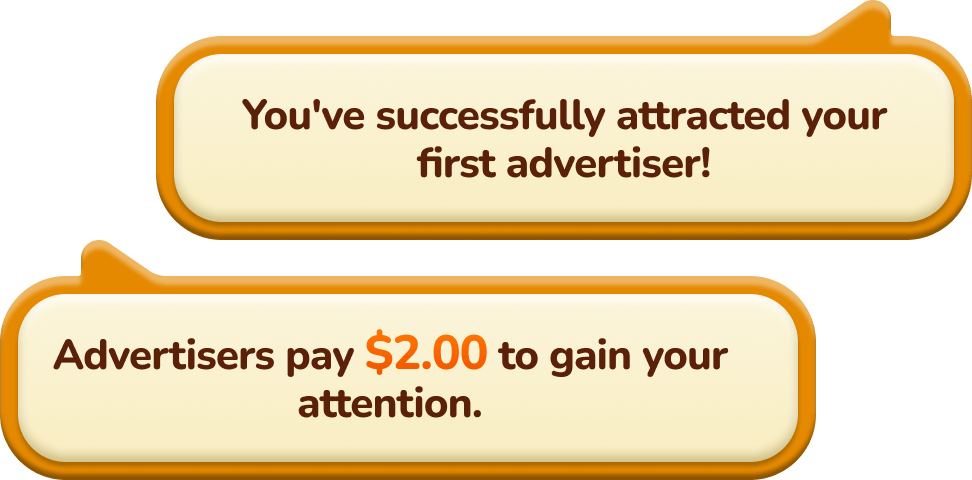
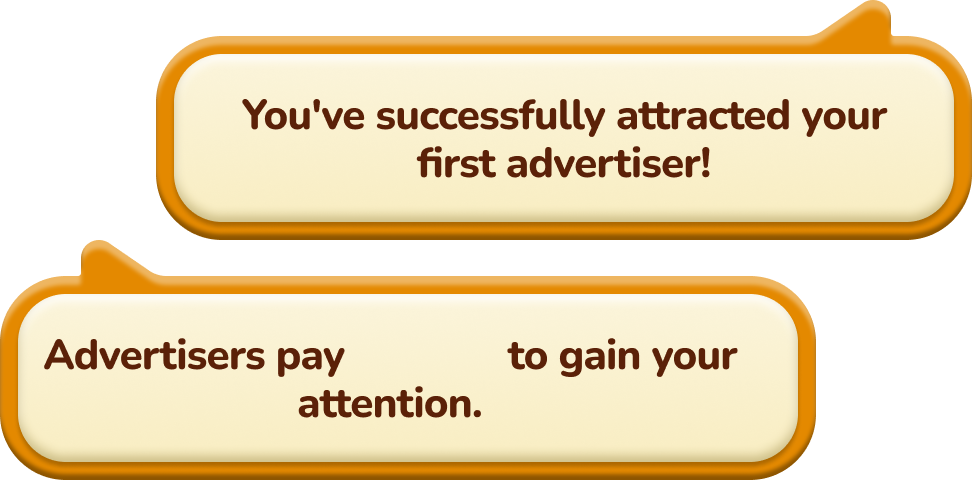
fix bug

Changed region(s): [[0.0309, 0.6875, 0.7716, 0.7812]]

diff --git a/lib/tw_143/tw_pages/main_tree/main_tree_controller.dart b/lib/tw_143/tw_pages/main_tree/main_tree_controller.dart
@@ -16,6 +16,7 @@ import 'package:c143/tw_143/tw_pages/guide/guide17_coin_to_flower.dart';
 import 'package:c143/tw_143/tw_pages/guide/guide1_water.dart';
 import 'package:c143/tw_143/tw_pages/guide/guide2_coin.dart';
 import 'package:c143/tw_143/tw_pages/guide/guide3_adspot.dart';
+import 'package:c143/tw_143/tw_pages/guide/guide3b_trust.dart';
 import 'package:c143/tw_143/tw_pages/guide/guide4_fertilize.dart';
 import 'package:c143/tw_143/tw_pages/guide/guide5_adspot.dart';
 import 'package:c143/tw_143/tw_pages/guide/guide6_rewarddouble.dart';
@@ -379,7 +380,7 @@ class MainTreeController extends GetxController {
     // data = MainTreeController.guide4;
     if (data == null) {
       if (TwPackageABC143.isPackageB()) {
-        OverlayGuide0BGuide().show(coins: 5, onBtn: (value) {});
+        OverlayGuide0BGuide().show(coins: 10, onBtn: (value) {});
       } else {
         OverlayGuide1Water().show();
       }
@@ -390,13 +391,28 @@ class MainTreeController extends GetxController {
     } else if (data == MainTreeController.guide2) {
       OverlayGuide3AdSpot().show(coins: 10);
     } else if (data == MainTreeController.guide3) {
-      OverlayGuide4Fertilize().show();
+      if(TwPackageABC143.isPackageB() ){
+        OverlayGuide3BTrust().show();
+      }else{
+        OverlayGuide4Fertilize().show();
+      }
+
     } else if (data == MainTreeController.guide4) {
       OverlayGuide5AdSpot().show(coins: 10);
     } else if (data == MainTreeController.guide5) {
-      OverlayGuide6RewardDouble().show(coins: 10);
+      OverlayGuide6RewardDouble().show(coins: 5);
     } else if (data == MainTreeController.guide6) {
-      OverlayGuide7Rank().show();
+      String? data = MainTreeController.to.guide7CashoutData();
+      if (TwPackageABC143.isPackageB()) {
+        if(data == null){
+          OverlayGuide8Cash().show(coins: 111);
+        }else{
+          MainController.to.resetIndex(MainController.cashIndex);
+        }
+
+      } else {
+        OverlayGuide7Rank().show();
+      }
     } else if (data == MainTreeController.guide7) {
       String? data = MainTreeController.to.guide7CashoutData();
       if (TwPackageABC143.isPackageB() && data == null) {
@@ -709,9 +725,9 @@ class MainTreeController extends GetxController {
       OverlayLotWater().show(
         onEnd: () {
           curHasWatering.value = true;
-          Timer(Duration(milliseconds: 2000), () {
+          Timer(Duration(milliseconds: 0), () {
             audioBtn_Water2.pause();
-            audioMusic.resume();
+            // audioMusic.resume();
             int tmpCurMmm = curStageWaterCount.value;
 
             int tmpCurmmm2 = tmpCurMmm + 1;

diff --git a/lib/tw_143/tw_pages/main_cash/viewC143/cash_progress.dart b/lib/tw_143/tw_pages/main_cash/viewC143/cash_progress.dart
@@ -2,6 +2,7 @@ import 'package:c143/tw_143/tw_common/lottieeee/gesture.dart';
 import 'package:c143/tw_143/tw_pages/main_cash/main_cash_controller.dart';
 import 'package:c143/tw_143/tw_pages/main_tree/main_tree_controller.dart';
 import 'package:c143/tw_base/tw_gj/countryC143.dart';
+import 'package:c143/tw_base/tw_gj/logC143.dart';
 import 'package:c143/tw_base/tw_gj/vibration.dart';
 import 'package:c143/tw_views/animated_scale.dart';
 import 'package:c143/tw_views/tw_progress.dart';
@@ -22,18 +23,20 @@ class _CashProgressState extends State<CashProgress> {
   Widget build(BuildContext context) {
     return Obx(() {
       double maxnnn = MainTreeController.stageB1Num;
-
-      if (MainCashController.to.hasSaveCardIddddC143()) {
+      double lfettt = MainTreeController.to.leftMonn1();
+      bool hasSaaa = MainCashController.to.hasSaveCardIddddC143();
+      if (hasSaaa) {
         maxnnn = MainTreeController.maxCoinNum;
+        lfettt = MainTreeController.to.leftMonn2();
       }
 
       double progress = MainTreeController.to.curMoneyyyy.value / maxnnn;
       if (progress >= 1) {
         progress = 1;
       }
-
+      twLooog("===progress:$progress===");
       List<Color> prgressTxt = MainCashController.to.progressColors();
-      double lfettt = MainTreeController.to.leftMonn1();
+
       return Padding(
         padding: EdgeInsets.symmetric(horizontal: 20.w),
         child: Column(
@@ -69,7 +72,7 @@ class _CashProgressState extends State<CashProgress> {
             Container(
               padding: EdgeInsets.symmetric(horizontal: 16.w),
               width: 320.w,
-              height: 140.h,
+              height: 160.h,
               decoration: BoxDecoration(
                 color: Colors.white,
                 borderRadius: BorderRadius.circular(12.h),
@@ -116,7 +119,7 @@ class _CashProgressState extends State<CashProgress> {
                       children: [
                         Container(
                           width: 290.w,
-                          height: 40.h,
+                          height: 60.h,
                           decoration: BoxDecoration(
                             gradient: LinearGradient(
                               colors: prgressTxt,
@@ -141,7 +144,7 @@ class _CashProgressState extends State<CashProgress> {
                                   style: TextStyle(
                                     fontWeight: FontWeight.w700,
                                     fontSize: 16.sp,   height: 1,
-                            
+
                                     color: Color(0xffffffff),
                                   ),
                                 ),

diff --git a/lib/tw_143/tw_pages/main/main_controller.dart b/lib/tw_143/tw_pages/main/main_controller.dart
@@ -22,6 +22,7 @@ import 'package:c143/tw_143/tw_pages/main_tree/main_tree_controller.dart';
 import 'package:c143/tw_base/tw_ad/guiyin/package.dart';
 import 'package:c143/tw_base/tw_gj/android_h5.dart';
 import 'package:c143/tw_base/tw_gj/event_busC143.dart';
+import 'package:c143/tw_base/tw_gj/login_trackC143.dart';
 import 'package:c143/tw_base/tw_gj/vibration.dart';
 import 'package:c143/tw_base/tw_http/event_report.dart';
 import 'package:c143/tw_notification/overlay_notify.dart';
@@ -35,7 +36,7 @@ class MainController extends GetxController {
   static const int quizIndex = 1;
   static const int spinindexxx = 2;
   static const int cashIndex = 3;
-
+  bool hasQidong = false;
   resetIndex(int index) async {
     // throw Exception();
     // VibrationC143.vibrationClick();
@@ -46,6 +47,16 @@ class MainController extends GetxController {
     if (curSelect == index) {
       return;
     }
+
+    if(TwLoginnnTrackC143.qiduoCishu() == 2 && !hasQidong){
+      String? data = MainTreeController.to.guide7CashoutData();
+      if(data != null){
+        hasQidong = true;
+        MainTreeController.to.initGuide();
+      }
+
+    }
+
     curMainNavIndex.value = index;
     if (index == cashIndex) {
       TwMaiDiannnn.cash_page_view(
@@ -61,9 +72,14 @@ class MainController extends GetxController {
       String? data = MainTreeController.to.guideIndexData();
 
       if (data == MainTreeController.guide10) {
-        OverlayGuide11HomeBonus().show(
-          coins: TwPackageABC143.isPackageB() ? 5 : 10,
-        );
+        if(TwPackageABC143.isPackageB()){
+          OverlayGuide7Rank().show();
+        }else{
+          OverlayGuide11HomeBonus().show(
+            coins: TwPackageABC143.isPackageB() ? 5 : 10,
+          );
+        }
+
       }
 
       MainTreeController.to.resetCoin();

diff --git a/lib/tw_143/tw_pages/guide/guide2_coin.dart b/lib/tw_143/tw_pages/guide/guide2_coin.dart
@@ -71,12 +71,12 @@ class OverlayGuide2Coin {
           MainTreeController.to.saveGuideIndexData(
             MainTreeController.guide2,
           );
-          double coins = 2;
+          double coins = 10;
           if(TwPackageABC143.isPackageB()){
-            coins = 2;
-            await TwCommonAds().showInterstitialAd(
-              adPosId: TwAdsPosId.cuvxv_newadview_rv,
-            );
+            // coins = 2;
+            // await TwCommonAds().showInterstitialAd(
+            //   adPosId: TwAdsPosId.cuvxv_newadview_rv,
+            // );
           }
 
           OverlayGuide3AdSpot().show(coins: coins);
@@ -252,16 +252,16 @@ class GuideWidget extends StatelessWidget {
                     ),
                   ),
                 )),
-                if (TwPackageABC143.isPackageB())
-                  Positioned(
-                    top: -10.h,
-                    right: -5.h,
-                    child: Image.asset(
-                      Assets.twimg.ad.path,
-                      width: 28.h,
-                      height: 28.h,
-                    ),
-                  ),
+                // if (TwPackageABC143.isPackageB())
+                //   Positioned(
+                //     top: -10.h,
+                //     right: -5.h,
+                //     child: Image.asset(
+                //       Assets.twimg.ad.path,
+                //       width: 28.h,
+                //       height: 28.h,
+                //     ),
+                //   ),
                 Positioned(
                   top: 40.h,
                   left: 30.w,

diff --git a/lib/tw_143/tw_pages/guide/guide7_rank.dart b/lib/tw_143/tw_pages/guide/guide7_rank.dart
@@ -3,6 +3,7 @@ import 'dart:async';
 import 'package:auto_size_text/auto_size_text.dart';
 import 'package:c143/gen/assets.gen.dart';
 import 'package:c143/tw_143/tw_common/lottieeee/gesture.dart';
+import 'package:c143/tw_143/tw_pages/guide/guide12_homereward.dart';
 import 'package:c143/tw_143/tw_pages/guide/guide1_water.dart';
 import 'package:c143/tw_143/tw_pages/guide/guide3_adspot.dart';
 import 'package:c143/tw_143/tw_pages/guide/guide8_cash.dart';
@@ -64,13 +65,19 @@ class OverlayGuide7Rank {
         guideContext: guideContext!,
         onClose: () async {
           close();
-          MainTreeController.to.saveGuideIndexData(
-            MainTreeController.guide7,
-          );
+
           // MainController.to.resetIndex(MainController.quizIndex);
           if(TwPackageABC143.isPackageB()){
-            OverlayGuide8Cash().show(coins: 111);
+            MainTreeController.to.saveGuideIndexData(
+              MainTreeController.guide11,
+            );
+
+            OverlayGuide12HomeReward().show(coins: 10, onBtn: (value) {});
+            // OverlayGuide8Cash().show(coins: 111);
           }else{
+            MainTreeController.to.saveGuideIndexData(
+              MainTreeController.guide7,
+            );
             MainController.to.resetIndex(MainController.quizIndex);
           }
 

diff --git a/lib/tw_143/tw_pages/guide/guide3b_trust.dart b/lib/tw_143/tw_pages/guide/guide3b_trust.dart
@@ -8,6 +8,7 @@ import 'package:c143/tw_143/tw_common/lottieeee/gesture.dart';
 import 'package:c143/tw_143/tw_pages/guide/guide1_water.dart';
 import 'package:c143/tw_143/tw_pages/guide/guide3_adspot.dart';
 import 'package:c143/tw_143/tw_pages/guide/guide4_fertilize.dart';
+import 'package:c143/tw_143/tw_pages/guide/guide5_adspot.dart';
 import 'package:c143/tw_143/tw_pages/main_tree/main_tree_controller.dart';
 import 'package:c143/tw_143/tw_pages/main_tree/vieee/main_top_b.dart';
 import 'package:c143/tw_base/tw_ad/guiyin/package.dart';
@@ -77,11 +78,15 @@ class OverlayGuide3BTrust {
           if (!showTz) {
             OverlayTzNotify().show(
               onEnd: () {
-                OverlayGuide4Fertilize().show();
+                // OverlayGuide4Fertilize().show();
+                MainTreeController.to.saveGuideIndexData(MainTreeController.guide4);
+                OverlayGuide5AdSpot().show(coins: 5);
               },
             );
           } else {
-            OverlayGuide4Fertilize().show();
+            // OverlayGuide4Fertilize().show();
+            MainTreeController.to.saveGuideIndexData(MainTreeController.guide4);
+            OverlayGuide5AdSpot().show(coins: 5);
           }
         },
       ),

diff --git a/lib/tw_143/tw_pages/main_tree/main_tree.dart b/lib/tw_143/tw_pages/main_tree/main_tree.dart
@@ -15,6 +15,7 @@ import 'package:c143/tw_143/tw_pages/guide/guide6_rewarddouble.dart';
 import 'package:c143/tw_143/tw_pages/guide/guide7_rank.dart';
 import 'package:c143/tw_143/tw_pages/guide/guide8_quiz1.dart';
 import 'package:c143/tw_143/tw_pages/guide/guide9_quiz2.dart';
+import 'package:c143/tw_143/tw_pages/guide/guide_OLD_launch2.dart';
 import 'package:c143/tw_143/tw_pages/guide/guide_old.dart';
 import 'package:c143/tw_143/tw_pages/main/main_controller.dart';
 import 'package:c143/tw_143/tw_pages/main_tree/main_tree_controller.dart';
@@ -59,10 +60,14 @@ class _MainTreeState extends State<MainTree> {
     initScroller();
     MainTreeController.initComposition();
     WidgetsBinding.instance.addPostFrameCallback((_) async {
-
-      MainTreeController.to.initGuide();
+      await initTz();
+      if(TwLoginnnTrackC143.qiduoCishu() == 2){
+        OverlayGuideOldLaunch2().show(coins:5);
+      }else{
+        MainTreeController.to.initGuide();
+      }
       initInterAd();
-      initTz();
+
 
     });
   }

diff --git a/lib/tw_143/tw_pages/guide/guide6_rewarddouble.dart b/lib/tw_143/tw_pages/guide/guide6_rewarddouble.dart
@@ -2,6 +2,7 @@ import 'package:auto_size_text/auto_size_text.dart';
 import 'package:c143/gen/assets.gen.dart';
 import 'package:c143/tw_143/tw_common/lottieeee/common.dart';
 import 'package:c143/tw_143/tw_pages/guide/guide7_rank.dart';
+import 'package:c143/tw_143/tw_pages/guide/guide8_cash.dart';
 import 'package:c143/tw_143/tw_pages/main_tree/main_tree_controller.dart';
 import 'package:c143/tw_base/tw_ad/guiyin/package.dart';
 import 'package:c143/tw_base/tw_gj/logC143.dart';
@@ -69,7 +70,11 @@ class OverlayGuide6RewardDouble {
             MainTreeController.to.onAddMoneyyyy(
               coins * 2,
               onEnd: () {
-                OverlayGuide7Rank().show();
+                if(TwPackageABC143.isPackageB()){
+                  OverlayGuide8Cash().show(coins: 1);
+                }else{
+                  OverlayGuide7Rank().show();
+                }
               },
             );
           },

diff --git a/lib/tw_143/tw_pages/guide/guide_OLD_launch2.dart b/lib/tw_143/tw_pages/guide/guide_OLD_launch2.dart
@@ -29,14 +29,20 @@ class OverlayGuideOldLaunch2 {
 
   void show({required double coins}) {
     _overlayEntry = null;
-
+    MainController.to.resetIndex(MainController.cashIndex);
     Widget child = Material(
       color: Colors.transparent,
       child: GuideOldLaunch2(
         coins: coins,
         onClose: () async {
           close();
-          MainController.to.resetIndex(MainController.cashIndex);
+          MainTreeController.to.onAddMoneyyyy(
+            5,
+            onEnd: () {
+              MainCashController.to.showMoneyHeroJsonTrue();
+            },
+          );
+          // MainController.to.resetIndex(MainController.cashIndex);
         },
       ),
     );

diff --git a/lib/tw_143/tw_pages/main_cash/main_cash.dart b/lib/tw_143/tw_pages/main_cash/main_cash.dart
@@ -59,7 +59,7 @@ class _MainCashState extends State<MainCash> {
             Obx(() {
               bool show = MainCashController.to.showMoneyHeorJson.value;
               if(!show){
-                // return const SizedBox();
+                return const SizedBox();
               }
               return Positioned.fill(
                   child: IgnorePointer(child: TwLottieCommon(type: EnumTwLottttieJson.moneyHero)));

diff --git a/lib/tw_base/tw_ad/base_ads.dart b/lib/tw_base/tw_ad/base_ads.dart
@@ -848,7 +848,7 @@ class TwCommonAds {
     bool ignored_hasDisplayAd = false, // 是否忽略_hasDisplayAd的 判断 false不忽略 true 忽略
     bool canTryAgain = true, // 是否可以再次尝试加载广告
   }) async {
-    // return true;
+    return true;
 
     bool result = await _showAdLogic(
       adPosId: adPosId,
